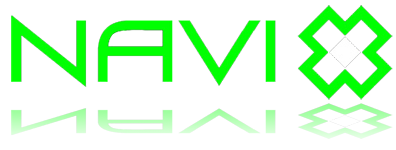
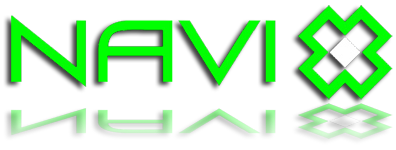
Navi-X 3.5.1.

diff --git a/trunk/scripts/Navi-X/src/CDownLoader.py b/trunk/scripts/Navi-X/src/CDownLoader.py
@@ -23,6 +23,7 @@ import threading
 import ftplib
 import os
 import socket
+import time
 from settings import *
 from CPlayList import *
 from CDialogBrowse import *
@@ -173,7 +174,7 @@ class CDownLoader(threading.Thread):
                 f = urllib2.urlopen(req)
                 loc_url=f.geturl()
                 size_string = f.headers['Content-Length']
-                size = int(size_string) #The remaining bytes
+                size = int(size_string)
 
             except IOError:
                 self.state = -1 #failed to open the HTTP URL
@@ -364,7 +365,14 @@ class CDownLoader(threading.Thread):
                 
                 size_MB = float(size) / (1024 * 1024) #total size MB
 
-                #download in chunks of 100kBytes
+                #DL-speed calculation
+                starttime = time.time()
+                startsize = bytes
+                deltatime = 0
+                deltasize = 0
+                dlspeed = 0
+
+                #download in chunks of 100kBytes                
                 while (bytes < size) and (self.killed == False) and (self.running == True):
                     chunk = 100 * 1024 #100kBytes chunks
                     if (bytes + chunk) > size:
@@ -375,17 +383,25 @@ class CDownLoader(threading.Thread):
                             
                     percent = 100 * bytes / size
                     done = float(bytes) / (1024 * 1024)
-                    line2 = '(%s) %.1f MB - %d ' % (header, size_MB, percent) + '%'           
+                    
+                    deltatime = time.time() - starttime
+                    if deltatime >=5: #update every 5 seconds
+                        #calculate the download speed                        
+                        deltasize = bytes - startsize
+                        dlspeed = (deltasize / 1024) / deltatime                        
+                        starttime = time.time()
+                        startsize = bytes
+                    
+                    line2 = '(%s) %.1f MB - %d%% - %dkB/s' % (header, size_MB, percent, dlspeed)
                     self.MainWindow.dlinfotekst.setLabel(line2)
                 
                 f.close() #close the URL
+                file.close() #close the destination file                 
 
                 if (self.killed == True) or (self.running == False):
                     self.state = -2 #failed to download the file
                         
-        except IOError:  
-#            socket_setdefaulttimeout(oldtimeout)       
-            file.close() #close the destination file 
+        except IOError:        
             self.state = -1 #failed to download the file
             return
 
@@ -565,6 +581,77 @@ class CDownLoader(threading.Thread):
         
         #end of function
         
+    ######################################################################
+    # Description: Download Speed test
+    # Parameters : entry =  mediaitem to test download speed
+    # Return     : 0 on success, -1 on failure
+    ######################################################################       
+    def DownLoadSpeedTest(self, entry):
+        #Get the direct URL to the mediaitem given URL      
+        urlopener = CURLLoader()
+        result = urlopener.urlopen(entry.URL, entry)
+        if result != 0:
+            return -1       
+
+        URL = urlopener.loc_url
+
+        dialog = xbmcgui.DialogProgress()
+        dialog.create("Download Speed Test", entry.name)        
+        dialog.update(0, entry.name)
+    
+        try:
+            bytes= 0
+            chunk = 100 * 1024
+            
+            headers = { 'User-Agent' : 'Mozilla/4.0 (compatible;MSIE 7.0;Windows NT 6.0)'}
+            req = urllib2.Request(URL, None, headers)
+            f = urllib2.urlopen(req)      
+            
+            size_string = f.headers['Content-Length']
+            size = int(size_string)     
+            
+            file = open(tempCacheDir + "dltest", "wb")
+            starttime = time.time()
+            deltatime = 0
+            updatetime = 0
         
+            while deltatime < 10: #10 seconds
+                if(dialog.iscanceled()):
+                    break
+            
+                if (bytes >= size): # got the complete file
+                    break;
+            
+                file.write(f.read(chunk))
+                bytes = bytes + chunk
+            
+                deltatime = time.time() - starttime
+                if (deltatime - updatetime) >= 1.0:
+                    dialog.update(deltatime*10, entry.name)
+                    #dialog.update(deltatime*10, str(deltatime-updatetime))
+                    updatetime = deltatime
+
+            f.close()
+            file.close()                
+            os.remove(tempCacheDir + "dltest")
+                
+        except IOError:
+            pass
+  
+        dialog.close()        
+        
+        if deltatime < 3:
+            return -1 # failed because we need at least 3 seconds to have an accurate measurement
+        
+        if (deltatime < 10) and (bytes < size):
+            return 0 #abort
+        
+        #calculate the download speed
+        dlspeed = (bytes / 1024) / deltatime
+        
+        dialog = xbmcgui.Dialog()
+        dialog.ok("Message", "Download speed: %d kBytes/s." % dlspeed)
+        
+        return 0
 
                 

diff --git a/trunk/scripts/Navi-X/src/navix.py b/trunk/scripts/Navi-X/src/navix.py
@@ -54,6 +54,7 @@
 # -v3.4.2 (2010/07/27)
 # -v3.4.3 (2010/08/28)
 # -v3.5 (2010/10/03)
+# -v3.5.1 (2010/10/xx)
 #
 #todo: Dharma XML update
 #############################################################################
@@ -226,7 +227,7 @@ class MainWindow(xbmcgui.WindowXML):
 
             #Configure the info text control
             SetInfoText(window=self.infotekst)
-
+            
             #check if there is a startup playlist
             result=-1
             if os.path.exists(RootDir + "startup.plx"):               
@@ -241,8 +242,12 @@ class MainWindow(xbmcgui.WindowXML):
                 #there is no startup playlist, load the Navi-X home page
                 result = self.ParsePlaylist(URL=self.home)
                 if result != 0: #failed
-                    self.ParsePlaylist(URL=home_URL_mirror) #mirror site              
-
+                    result = self.ParsePlaylist(URL=home_URL_mirror) #mirror site
+                else:
+                    #make sure Navi-X icon is updated always
+                    loader = CFileLoader2() #file loader
+                    loader.load(navixlogo, imageCacheDir + "thumb.png", proxy="CACHING", content_type='image')                
+                        
             if result != 0:
                 #failed to load page startup page from both main and backup server
                 dialog = xbmcgui.Dialog()
@@ -1862,12 +1867,13 @@ class MainWindow(xbmcgui.WindowXML):
                 self.state_busy = 0 #busy
                 return
 
-            possibleChoices = ["Download", "Download + Shutdown", "Cancel"]
+            possibleChoices = ["Download", "Download + Shutdown", "Download Speed Test", "Cancel"]
             dialog = xbmcgui.Dialog()
             choice = dialog.select("Download...", possibleChoices)
                        
             if (choice != -1) and (choice < 2):
-                self.downlshutdown = False #Reset flag
+                if choice == 0:
+                    self.downlshutdown = False #Reset flag
                 if choice == 1:
                     self.downlshutdown = True #Set flag
                    
@@ -1892,7 +1898,13 @@ class MainWindow(xbmcgui.WindowXML):
                 elif self.downloader.state == -1:
                     dialog = xbmcgui.Dialog()
                     dialog.ok("Error", "Cannot locate file.")
-                    
+            
+            if (choice != -1) and (choice == 2): #download speed test
+                result = self.downloader.DownLoadSpeedTest(entry)
+                if result != 0:
+                    dialog = xbmcgui.Dialog()
+                    dialog.ok("Error", "Download Speed Test Failed.")
+        
             self.state_busy = 0 #not busy            
 
         ######################################################################
@@ -2073,21 +2085,30 @@ class MainWindow(xbmcgui.WindowXML):
             if not os.path.exists(directory): 
                 os.mkdir(directory)
           
+            #create the shortcut thumb
             if mediaitem.thumb != 'default':
                 loader = CFileLoader2()
-                loader.load(mediaitem.thumb, directory + SEPARATOR + 'default.tbn', proxy='DISABLED')           
+                loader.load(mediaitem.thumb, directory + SEPARATOR + 'default.tbn', proxy='DISABLED')
             elif playlist.logo != 'none':
                 loader = CFileLoader2()
                 loader.load(playlist.logo, directory + SEPARATOR + 'default.tbn', proxy='DISABLED') 
             else:
                 shutil.copyfile(imageDir + 'shortcut.png' , directory + SEPARATOR + 'default.tbn')            
             
+            #create the thumb icon for XBMC Dharma (icon.png)
+            shutil.copyfile(directory + SEPARATOR + 'default.tbn', directory + SEPARATOR + "icon.png")
+            
+            #copy the boot script
             shutil.copyfile(initDir+"default.py", directory + SEPARATOR + "default.py")
             
+            #For Dharma we need to create a addon.xml file. Do this in a separate function
+            CreateAddonXML(mediaitem.name, directory + SEPARATOR)
+            
+            #create the boot playlist.
             playlist.save(directory + SEPARATOR + "startup.plx", pos, pos+1)
             
             dialog = xbmcgui.Dialog()
-            dialog.ok("Message", "Created new shortcut in script folder.")
+            dialog.ok("Message", "New shortcut created. Please restart XBMC.")
             
 
         ######################################################################

diff --git a/trunk/scripts/Navi-X/src/libs2.py b/trunk/scripts/Navi-X/src/libs2.py
@@ -272,19 +272,38 @@ def getRemote(url,args={}):
     
     return oret
 
-#@todo: separate class py file for login handling
+ 
 ######################################################################
-# Description: Login function for Navi-Xtreme login.
-# Parameters : username: user name
-#              password: user password
-# Return     : blowfish-encrypted string identifying the user for 
-#              saving locally, or an empty string if the login failed.
-######################################################################  
-#def nxLogin(username,password):
-#    return getRemote('http://navix.turner3d.net/login/',{
-#    	'method':'post',
-#    	'postdata':urllib.urlencode({'username':username,'password':password})
-#    })
+# Description: Creates an addon.xml file (needed for Dharma)
+# Parameters : name: shortcut name
+#            : path: short pathname in the scripts folder
+# Return     : -
+######################################################################
+def CreateAddonXML(name, path):
+    sum = 0
+    #calculate hash of name
+    for i in range(len(name)):
+        sum = sum + (ord(name[i]) * i)
+    sum_str = str(sum)
+
+    try:
+        f=open(initDir + 'addon.xml', 'r')
+        data = f.read()
+        data = data.splitlines()
+        f.close()
+        
+        f=open(path + 'addon.xml', 'w')
+        for m in data:
+            line = m
+            if m.find("name=") != -1:
+                line = line + '"' + name + '"'
+            elif m.find("id=") != -1:
+                line = line + '"scrip.navi-x' + sum_str + '"' 
+            f.write(line + '\n')
+        f.close()     
+    except IOError:
+        pass
+
  
 ######################################################################
 # Description: Controls the info text label on the left bottom side

diff --git a/trunk/scripts/Navi-X/src/settings.py b/trunk/scripts/Navi-X/src/settings.py
@@ -76,9 +76,12 @@ else:
     SEPARATOR = '\\'
 
 import xbmc
-version = xbmc.getInfoLabel("System.BuildVersion")[:1]
-
-if version == '9':
+#version = xbmc.getInfoLabel("System.BuildVersion")[:1]
+if xbmc.getInfoLabel("System.BuildVersion")[:2] == '10':
+    scriptDir = "special://home/addons/"
+    pluginDir = "special://home/addons/"
+    skinDir = "special://home/skin/"
+elif xbmc.getInfoLabel("System.BuildVersion")[:1] == '9':
     scriptDir = "special://home/scripts/"
     pluginDir = "special://home/plugins/"
     skinDir = "special://home/skin/"
@@ -91,7 +94,7 @@ else:
 ######################################################################
 #program version: Combination of version and subversion
 Version='3' 
-SubVersion='5'
+SubVersion='5.1'
 
 favorite_file='favorites.plx' #the favorite list is also a playlist
 downloads_file='downlmenu.plx' #the downloads list is also a playlist
@@ -107,6 +110,7 @@ background_image1 = 'background1.jpg'
 background_image2 = 'background2.png'
 searchhistory_file = 'search.dat'
 nxserver_URL = 'http://navix.turner3d.net'
+navixlogo = 'http://www.navi-x.org/playlists/logo.png'
 
 url_open_timeout = 10 #10 seconds
 page_size = 200 #display maximum 100 entries on one page

diff --git a/trunk/scripts/Navi-X/init/default.py b/trunk/scripts/Navi-X/init/default.py
@@ -24,15 +24,22 @@ else:
 import xbmc
 version = xbmc.getInfoLabel("System.BuildVersion")[:1]
 
-if version == '9':
+#version = xbmc.getInfoLabel("System.BuildVersion")[:1]
+if xbmc.getInfoLabel("System.BuildVersion")[:2] == '10':
+    scriptDir = "special://home/addons/"
+    pluginDir = "special://home/addons/"
+    skinDir = "special://home/skin/"
+    NaviXDir = scriptDir + "Navi-X/"  
+elif xbmc.getInfoLabel("System.BuildVersion")[:1] == '9':
     scriptDir = "special://home/scripts/"
     pluginDir = "special://home/plugins/"
-    NaviXDir = scriptDir + "Navi-X/"
+    skinDir = "special://home/skin/"   
+    NaviXDir = scriptDir + "Navi-X/"   
 else: 
     scriptDir = "Q:\\scripts\\"
     pluginDir = "Q:\\plugins\\"
     skinDir = "Q:\\skin\\"
-    NaviXDir = scriptDir + "Navi-X\\"
+    NaviXDir = scriptDir + "Navi-X\\"    
 
 #############################################################################
 def Trace(string):

diff --git a/trunk/scripts/Navi-X/src/CBackgroundLoader.py b/trunk/scripts/Navi-X/src/CBackgroundLoader.py
@@ -93,7 +93,6 @@ class CBackgroundLoader(threading.Thread):
 #todo:use the HTTP header image content type to determine the file extension
                             ext = getFileExtension(m)
                             loader = CFileLoader2() #file loader
-                            #loader.load(m, imageCacheDir + "thumb." + ext, timeout=2, proxy="ENABLED", content_type='image')
                             loader.load(m, imageCacheDir + "thumb." + ext, proxy="ENABLED", content_type='image')
                             if loader.state == 0: #success
                                 #next line is fix, makes sure thumb is update.

diff --git a/trunk/scripts/Navi-X/src/CFileLoader.py b/trunk/scripts/Navi-X/src/CFileLoader.py
@@ -30,6 +30,7 @@ class CFileLoader2:
     ######################################################################
     # Description: Downloads a file in case of URL and returns absolute
     #              path to the local file.
+#@todo: Fill parameters    
     # Parameters : URL=source, localfile=destination
     # Return     : -
     ######################################################################

diff --git a/trunk/scripts/Navi-X/default.py b/trunk/scripts/Navi-X/default.py
@@ -34,8 +34,8 @@ else:
     SEPARATOR = '\\'
 
 version_default = '0.0.0'
-version_URL='http://www.navi-x.org/updates/version34.dat'
-update_URL='http://www.navi-x.org/updates/update34.zip'
+version_URL='http://www.navi-x.org/updates/version3x.dat'
+update_URL='http://www.navi-x.org/updates/update3x.zip'
 
 #############################################################################
 def onReadVersion():

diff --git a/trunk/scripts/Navi-X/src/CURLLoader.py b/trunk/scripts/Navi-X/src/CURLLoader.py
@@ -73,9 +73,10 @@ class CURLLoader:
             req = urllib2.Request(URL, None, values)
             f = urllib2.urlopen(req)
             self.loc_url=f.geturl()
+            f.close()            
         except IOError:
             pass
-            
+        
         #always return true    
         return 0
 
